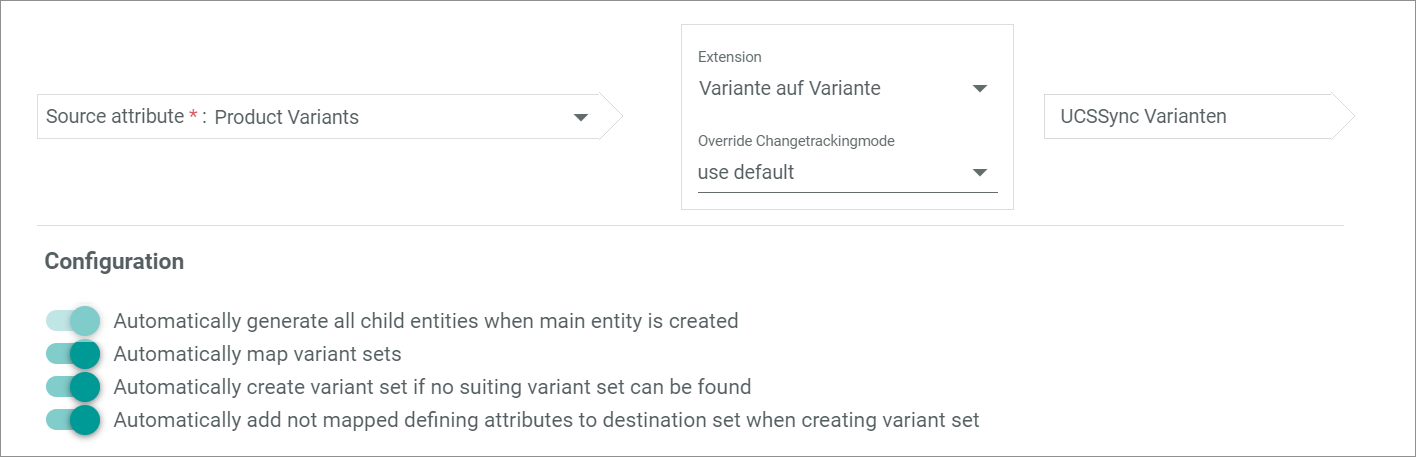
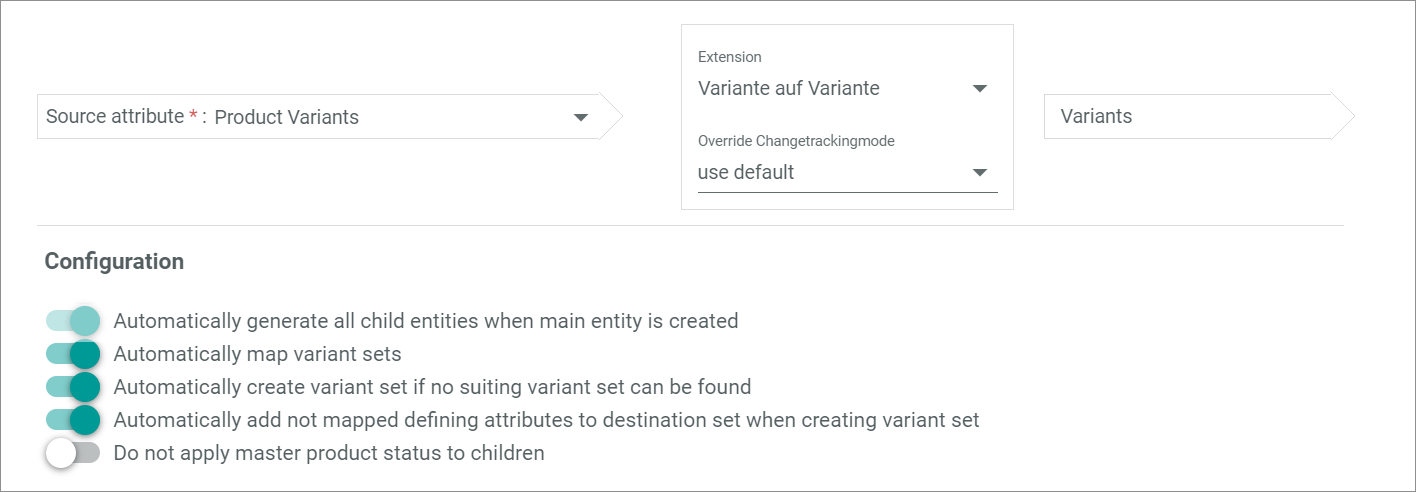
ACD-521
ETL extensions

diff --git a/DataHub/UserInterface/ETLExtensions.md b/DataHub/UserInterface/ETLExtensions.md
@@ -62,7 +62,11 @@ This extension is used to map a boolean attribute (checkbox or toggle) to a stri
   Enter the content that is mapped to the string attribute when the boolean value equals false, which means that the checkbox is not selected or the toggle is inactive.
 
 
-## Catalog Tree to Tree value mapping -
+## Catalog Tree to Tree value mapping
+
+![Catalog tree to tree value mapping](/Assets/Screenshots/DataHub/Settings/ETL/Extensions/CatalogTreeToTreeValueMapping.png "[Catalog tree to tree value mapping]")
+
+This extension is used to map a catalog attribute to a tree node attribute. It is mainly used to map the Actindo specific categories.
 
 ### Configuration
 This ETL extension has no further configuration settings.
@@ -172,6 +176,10 @@ This extension is used to map the generic property of an entity attribute to a s
 
 ## ETLPIMToUCSBundleExtension
 
+![ETL PIM to UCS bundle extension](/Assets/Screenshots/DataHub/Settings/ETL/Extensions/ETLPIMToUCSBundleExtension.png "[ETL PIM to UCS bundle extension]")
+
+This extension is used to map a PIM product bundle attribute to a UCS bundle attribute. This extension is Actindo specific and is only used in the mapping from the PIM to the RetailSuite. It is mainly used to manage the stock of sets.
+
 ### Configuration
 This ETL extension has no further configuration settings.
 
@@ -188,6 +196,7 @@ For detailed information about HTML templates, see [Manage the HTML templates](/
 
 - *Html-Template*   
   Select the HTML template to be applied to the mapping. The HTML templates can be created in the *HTML TEMPLATES* tab.
+
 
 
 ## Identity-Mapping
@@ -236,7 +245,22 @@ destination attribute: Cloudinary images
 - *Folder*
 
 
+
 ## Import special price
+
+![Import special price](/Assets/Screenshots/DataHub/Settings/ETL/Extensions/ImportSpecialPrice.png "[Import special price]")
+
+This extension is used to map a promotion price to a price attribute. The promotion price to be mapped is composed of different source attributes. By the source attributes, define:  
+  - whether the discount is a percent discount or an absolute discount
+  - the amount of the discount
+  - the currency
+  - the start quantity from which the promotion price is applied
+  - the start date of the promotion price
+  - the end date of the promotion price
+
+Beside the dates, all attributes are required for the mapping.
+
+[comment]: <> (Is that right?)
 
 ### Configuration
 This ETL extension has no further configuration settings.
@@ -304,9 +328,20 @@ This extension is used to map a MySQL query to a random destination attribute. T
 
 ## Next special base price to date time
 
+![Next special base price to date time](/Assets/Screenshots/DataHub/Settings/ETL/Extensions/NextSpecialBasePriceToDateTime.png "[Next special base price to date time]")
+
+This extension is used to map the promotion date of a PIM price field attribute to a date attribute. The PIM price field is Actindo specific and contains not only the simple price, but also the base price, scale prices, promotion prices, the tax class including the tax rate and supported currencies. Each of this data is extracted from the price attribute by the corresponding extension, for instance the date of the next promotion is mapped by the *Next special base price to date time* extension. Further settings are defined in the configuration.
+
 ### Configuration
-- ![Toggle](/Assets/Icons/Toggle.png "[Toggle]") Get from date
-- Currency: dropdown witth all available currencies
+- ![Toggle](/Assets/Icons/Toggle.png "[Toggle]") *Get from date*   
+  Activate the toggle to map the start date of the promotion. Otherwise the end date of the promotion is mapped to the destination attribute.
+
+[comment]: <> (Ist das hier genau andersherum wie im deutschen? Da aktiviert man den Toggle, um das bis-datum zu bekommen - oder ist das nen Übersetzungsfehler?)
+
+- *Currency*   
+  Select the appropriate currency in the drop-down list. Only those currencies that are defined as a supported currency in the PIM price field attribute configuration are mapped. in All available currencies are displayed in the list.
+
+  [comment]: <> (Is that right? what currencies are mapped?)
 
 
 ## Null Coalescence Extension
@@ -360,7 +395,14 @@ This ETL extension has no further configuration settings.
 This ETL extension has no further configuration settings.
 
 
-## PIM BasePrice to Unit -
+## PIM BasePrice to Unit
+
+![PIM base price to unit](/Assets/Screenshots/DataHub/Settings/ETL/Extensions/PIMBasePriceToUnit.png "[PIM base price to unit]")
+
+This extension is used to map a base price attribute to a tree node attribute. The base price is Actindo specific and contains the dimension, the unit and the relevant amount for the base price. Each of this data is extracted from the base price attribute by the corresponding extension, for instance the unit is mapped by the *PIM BasePrice to Unit* extension.
+
+[comment]: <> (Is that right- tree node attribute?)
+
 
 ### Configuration
 This ETL extension has no further configuration settings.
@@ -381,6 +423,19 @@ This ETL extension has no further configuration settings.
 
 ## PriceBuilder
 
+![Price builder](/Assets/Screenshots/DataHub/Settings/ETL/Extensions/PriceBuilder.png "[Price builder]")
+
+This extension is used to map an individual price to a price attribute. The price to be mapped is composed of different source attributes. By the source attributes, define:  
+  - the tax class
+  - the base price
+  - the currency
+  - whether the price is gross or net
+  - the MSRP
+
+Beside the MSRP, all attributes are required for the mapping.
+
+[comment]: <> (Is that right?)
+
 ### Configuration
 This ETL extension has no further configuration settings.
 
@@ -393,22 +448,41 @@ This ETL extension has no further configuration settings.
 
 ## Price to Tax
 
+![Price to tax](/Assets/Screenshots/DataHub/Settings/ETL/Extensions/PriceToTax.png "[Price to tax]")
+
+This extension is used to map a PIM price field attribute to a number attribute. The PIM price field is Actindo specific and contains not only the simple price, but also the base price, scale prices, promotion prices, the tax class including the tax rate and supported currencies. Each of this data is extracted from the price attribute by the corresponding extension, for instance the tax rate is mapped by the *Price to Tax* extension. The tax rate settings are defined in the configuration.
+
+[comment]: <> (Is that right- number attribute?)
+
 ### Configuration
-- Country: dropdown with all available countries
-- ![Toggle](/Assets/Icons/Toggle.png "[Toggle]") In percent
+- *Country*   
+  Select the appropriate country in the drop-down list to apply the corresponding tax rate. All available countries are displayed in the list.
+
+- ![Toggle](/Assets/Icons/Toggle.png "[Toggle]") *In percent*   
+  Activate the toggle to indicate the tax rate as a percentage. Otherwise, the tax rate is indicated as a decimal number.
+
+[comment]: <> (Is that right?)
 
 
-## Price to Tax Class -
+## Price to Tax Class
+
+![Price to tax class](/Assets/Screenshots/DataHub/Settings/ETL/Extensions/PriceToTaxClass.png "[Price to tax class]")
+
+This extension is used to map a PIM price field attribute to a tax class attribute. The PIM price field is Actindo specific and contains not only the simple price, but also the base price, scale prices, promotion prices, the tax class including the tax rate and supported currencies. Each of this data is extracted from the price attribute by the corresponding extension, for instance the tax class is mapped by the *Price to Tax Class* extension.
+
+[comment]: <> (Is that right- tax class attribute?)
 
 ### Configuration
 This ETL extension has no further configuration settings.
+
+[comment]: <> (In the video, Cris has the configurations *Standardsatz* and *Ermäßigt*. What is right?)
 
 
 ## Pricing to float
 
 ![Pricing to float](/Assets/Screenshots/DataHub/Settings/ETL/Extensions/PricingToFloat.png "[Pricing to float]")
 
-This extension is used to map a price field attribute to a string attribute. A discount to the price can be entered in the *Discount in percent* drop-down list. Further price settings are defined in the configuration.
+This extension is used to map a PIM price field attribute to a string attribute. The PIM price field is Actindo specific and contains not only the simple price, but also the base price, scale prices, promotion prices, the tax class including the tax rate and supported currencies. Each of this data is extracted from the price attribute by the corresponding extension, for instance the price itself is mapped by the *Pricing to float* extension. A discount to the price can be entered in the *Discount in percent* drop-down list. Further price settings are defined in the configuration.
 
 ### Configuration
 
@@ -416,7 +490,7 @@ This extension is used to map a price field attribute to a string attribute. A d
   Select the appropriate country in the drop-down list to apply the correct tax rate to the price. All available countries are displayed in the list.
 
 - *Currency*   
-  Select the appropriate currency in the drop-down list. Only those currencies that are defined as a supported currency in the price attribute configuration are mapped. in All available currencies are displayed in the list.
+  Select the appropriate currency in the drop-down list. Only those currencies that are defined as a supported currency in the PIM price field attribute configuration are mapped. in All available currencies are displayed in the list.
 
   [comment]: <> (Is that right? what currencies are mapped?)
 
@@ -432,7 +506,7 @@ This extension is used to map a price field attribute to a string attribute. A d
   Select the appropriate country in the drop-down list to apply the correct tax rate to the price. All available countries are displayed in the list.
 
 - *Currency*   
-  Select the appropriate currency in the drop-down list. Only those currencies that are defined as a supported currency in the price attribute configuration are mapped. in All available currencies are displayed in the list.
+  Select the appropriate currency in the drop-down list. Only those currencies that are defined as a supported currency in the PIM price field attribute configuration are mapped. in All available currencies are displayed in the list.
 
   [comment]: <> (Is that right? what currencies are mapped?)
 
@@ -460,8 +534,21 @@ This extension is used to map a price field attribute to a string attribute. A d
 
 ## Special price with default fallback
 
+![Special price with default fallback](/Assets/Screenshots/DataHub/Settings/ETL/Extensions/SpecialPriceWithDefaultFallback.png "[Special price with default fallback]")
+
+This extension is used to map a PIM price field attribute with a fallback PIM price field attribute to a price attribute. One of the price field attributes is used for a promotion prices. This attribute is always considered first when mapping. The other price field attribute is used as a fallback price that will be mapped when no promotion price is available. The fallback price attribute is mandatory. This mapping is used when promotion prices and regular prices are maintained in different price field attributes. Further price settings are defined in the configuration.
+
 ### Configuration
-This ETL extension has no further configuration settings.
+
+- *Country*     
+  Select the appropriate country in the drop-down list to apply the correct tax rate to the price. All available countries are displayed in the list.
+
+- *Mapping mode*   
+  Select the appropriate mapping mode for the source price attributes. The following modes are available:   
+    - **Consider all prices**: All prices in the PIM price field attribute are mapped to the destination attribute.
+    - **Consider only promotions**: Only the promotion prices in the PIM price field attribute are mapped to the destination attribute.
+    - **Ignore promotions**: All prices beside the promotion prices in the PIM price field attribute are mapped to the destination attribute.
+
 
 
 ## Stock-To-Integer
@@ -664,64 +751,102 @@ This ETL extension has no further configuration settings.
 This ETL extension has no further configuration settings.
 
 
-## Tree-to-Tree -
+## Tree-to-Tree
+
+![Tree to tree](/Assets/Screenshots/DataHub/Settings/ETL/Extensions/TreeToTree.png "[Tree to tree]")
+
+This extension is used to map a tree node attribute to another tree node attribute. Further settings to the tree node are defined in the configuration.
 
 ### Configuration
-- ![Toggle](/Assets/Icons/Toggle.png "[Toggle]") Create node if not existing
-- Match destination node by:
-  - Key
-  - Title
+- ![Toggle](/Assets/Icons/Toggle.png "[Toggle]") *Create node if not existing*   
+  Activate the toggle to automatically create a tree node in the destination attribute if no tree node exists. Otherwise, you have to manually create a tree node.
+
+  [comment]: <> (is that right? or does the mapping fail then?)
+
+- *Match destination node by*   
+  Select the field of the tree node attribute whose value will be used for the mapping.
+  - **Key**: The key value of the tree node attribute is used for the mapping.
+  - **Title**: The title value of the tree node attribute is used for the mapping.
 
 
+- *Relevant Language*   
+  Select the language of the attribute value used for the mapping. All active languages are displayed in the drop-down list. The drop-down list is only displayed, when the **Title** option is selected in the *Match destination node by* drop-down list.
 
-## Tree value mapping -
+
+## Tree value mapping
+
+![Tree value mapping](/Assets/Screenshots/DataHub/Settings/ETL/Extensions/TreeValueMapping.png "[Tree value mapping]")
+
+This extension is used to map a string attribute to a tree node attribute where the corresponding value of the string attribute must be accessed to map it to correctly the tree node attribute. For instance, this extension is often used to map the Actindo payment method from an order. All payment methods and their IDs are defined in the *Invoicing* module. These values must be accessed to map both, the payment methods and their IDs to the destination tree node attribute.
 
 ### Configuration
 This ETL extension has no further configuration settings.
 
 
-## UnitValue-To-Number -
+## UnitValue-To-Number
 
+![Unit value to number](/Assets/Screenshots/DataHub/Settings/ETL/Extensions/UnitValueToNumber.png "[Unit value to number]")
+
+This extension is used to map an unit attribute to a number attribute. A unit attribute always includes a unit and a quantity. Only the quantity value is mapped to the destination attribute. To map the quantity value in the correct unit, the quantity is calculated into the unit of the destination attribute. Define the unit in the configuration.
+
+[comment]: <> (Is that right? If not - how can a unit be mapped to a number attribute?)
 
 ### Configuration
-- Unit to convert to: drop-down with the unit values of the selected source attribute
+- *Unit to convert to*   
+  Select the appropriate unit of the destination attribute to calculate the quantity into the correct unit. All units corresponding to the dimension of the source attribute are displayed in the drop-down list.
 
 
 ## UnitValue-To-Text
 
-![UnitValue to text](/Assets/Screenshots/DataHub/Settings/ETL/Extensions/UnitValueToText.png "[UnitValue to text]")
+![Unit value to text](/Assets/Screenshots/DataHub/Settings/ETL/Extensions/UnitValueToText.png "[Unit value to text]")
 
-This extension is used to map an unit attribute to a string attribute. A unit attribute always includes a dimension and a unit, for instance, the dimension *Length* and the unit *m*.
+This extension is used to map an unit attribute to a string attribute. A unit attribute always includes a unit and a quantity. The settings how to display both values in the string attribute are defined in the configuration.
 
 ### Configuration
-- *Mode*    
+- *Mode*     
+  Select the unit mapping mode. The following options are available:
+  - **Keep Unit**: The source unit is mapped to the destination attribute.
+  - **Configured Unit**: The unit to be mapped to the destination attribute must be selected in the *Configured unit* drop-down list.
+  - **Destination Unit**: The destination unit is kept in the destination attribute.
 
-  - **Keep Unit**
-  - **Configured Unit**
-  - **Destination Unit**
+  [comment]: <> (Destination Unit -> error; Configured Unit -> not working and no drop-down list displayed; ergibt auch irgendwie beides keinen sinn, oder?)
+
+- *Suffix Mode*   
+  Select the suffix display mode for the unit. The following options are available:
+  - **Suffix Symbol**: The unit is displayed by its symbol or abbreviation, for instance *cm*.
+  - **Suffix Name**: The unit is displayed by its name, for instance *centimeter*.
+  - **Suffix Empty**: The unit is hidden.
 
 
-- *Suffix Mode*
+- *Separator*   
+  Enter the separator sign placed between quantity and unit. If the field is left empty, the unit and quantity are written directly one after the other.
 
-  - **Suffix Symbol**
-  - **Suffix Name**
-  - **Suffix Empty**
+- *Decimal Separator*   
+  Enter the decimal separator for the quantity value. If the number of decimal places is greater than 0, you should enter a separator sign to avoid that the value is displayed incorrectly. By default, the point is used as a decimal separator in English, the comma in German.
 
+- *Decimal Places*   
+  Enter the number of decimal places for the quantity value. This field is mandatory. Depending on the decimal places, the quantity is rounded.
 
-- *Separator* zwischen Zahl und Einheit
-- *Decimal Separator*
-- *Decimal Places*
+  [comment]: <> (Verwirrend: warum wird bei der unitvalue-to-number erweiterung nur der mengenwert, bei der unitvalue-to-string erweiterung aber menge inklusive einheit übertragen?)
 
 
 ## UnitValue-To-UnitValue
 
-### Configuration
-- Choose the unit mapping mode:
-  - Keep Unit  
-  - Configured Unit
-  - Destination Unit
+![Unit value to unit value](/Assets/Screenshots/DataHub/Settings/ETL/Extensions/UnitValueToUnitValue.png "[Unit value to unit value]")
 
-- Configured unit (if option **Configured Unit** is selected): dropdown with all available units
+This extension is used to map an unit attribute to a another unit attribute. A unit attribute always includes a unit and a quantity. Define in the configuration which of the units should be mapped in the destination attribute.
+
+### Configuration
+
+- *Choose the unit mapping mode*     
+  Select the appropriate unit mapping mode. The following options are available:
+  - **Keep Unit**: The source unit is mapped to the destination attribute.
+  - **Configured Unit**: The unit to be mapped to the destination attribute must be selected in the *Configured unit* drop-down list.
+  - **Destination Unit**: The destination unit is kept in the destination attribute.
+
+
+- *Configured unit*    
+  Select the unit that will be mapped in the destination unit. All units corresponding to the dimension of the destination attribute are displayed in the drop-down list. The drop-down list is only displayed when the  **Configured Unit** option is selected in the *Choose the unit mapping mode* drop-down list.
 
 
 ## Variant-To-String
@@ -776,11 +901,9 @@ This extension is used to map a variant attribute to a variant attribute. The va
 
   [comment]: <> (Verstehe ich nicht, was diese Option macht...)
 
-- ![Toggle](/Assets/Icons/Toggle.png "[Toggle]") *Status des Hauptartikels nicht auf Kindartikel übertragen*      
-  Activate the toggle to apply the status of the main product to all variants in the destination attribute. Deactivate the toggle to manage the status of all variants independently of their master product. By default, the toggle is inactive.
+- ![Toggle](/Assets/Icons/Toggle.png "[Toggle]") *Do not apply master product status to children*      
+  Activate the toggle to manage the status of all variants independently of their master product. Otherwise, the status of the main product is automatically applied to all variants in the destination attribute. By default, the toggle is inactive.
 
-
-  [comment]: <> (Existiert der letzte Toggle noch?)
 
 
 -------
